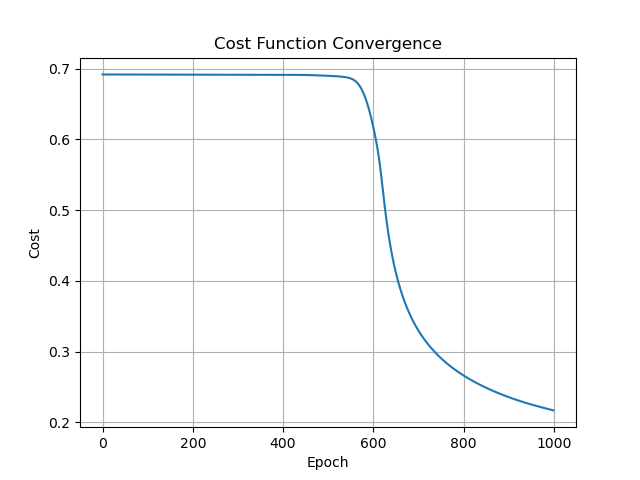
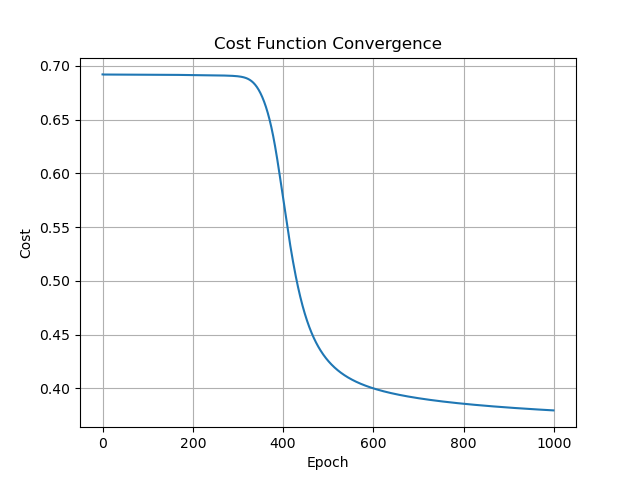
Lab 06

diff --git a/LAB06_DL/test_neural_network.py b/LAB06_DL/test_neural_network.py
@@ -6,8 +6,8 @@ from utils import sum_gt_zero, xor
 
 num_cases = 200  # number of auto-generated cases
 num_epochs = 1000  # number of epochs for training
-classification_function = xor  # selects sum_gt_zero as the classification function
-# classification_function = xor  # selects xor as the classification function
+#classification_function = sum_gt_zero  # selects sum_gt_zero as the classification function
+classification_function = xor  # selects xor as the classification function
 # Figure format used for saving figures
 fig_format = 'png'  # for Word users
 # fig_format = 'svg'
